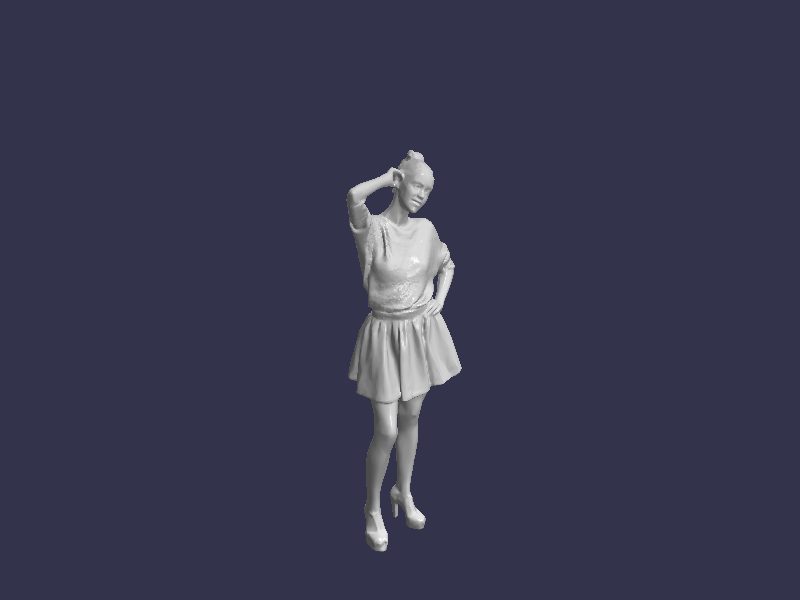
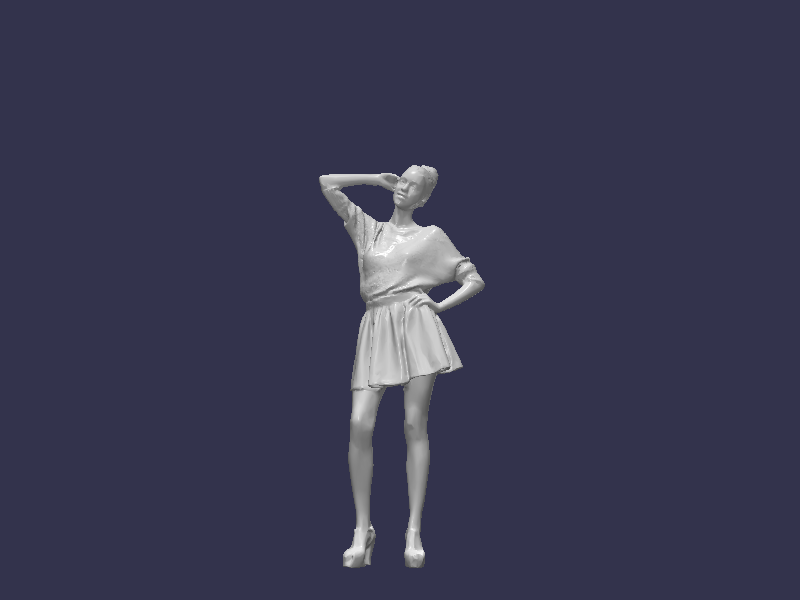
correct cameras

Changed region(s): [[0.375, 0.24, 0.625, 0.96]]

diff --git a/Photographer/main.cpp b/Photographer/main.cpp
@@ -13,11 +13,11 @@ int main()
 
     photographer.addCameraToPosition(0.0f, 1.0f, 3.0f, 4.0f);
     photographer.addCameraToPosition(0.0f, -1.0f, -2.0f, 4.0f);
-    photographer.addCameraToPosition(-1.0f, 1.0f, 3.0f, 4.0f);
     photographer.addCameraToPosition(1.0f, -0.5f, 2.0f, 4.0f);
 
     photographer.renderToImages("./images/");
     photographer.saveImageCamerasParamsCV("./images/");
 
     photographer.viewScene();
+
 }
